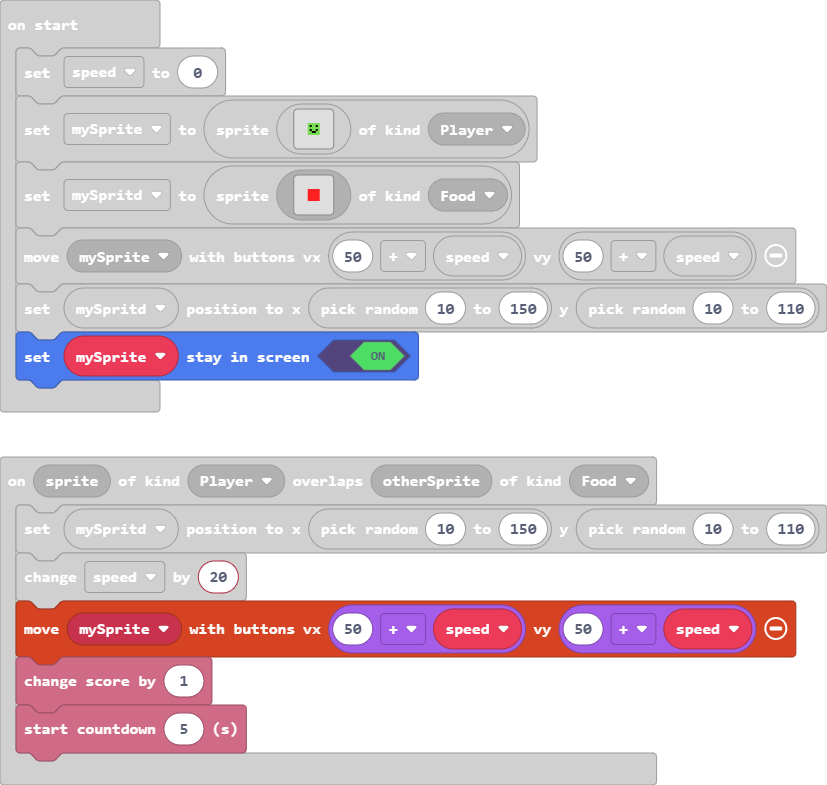
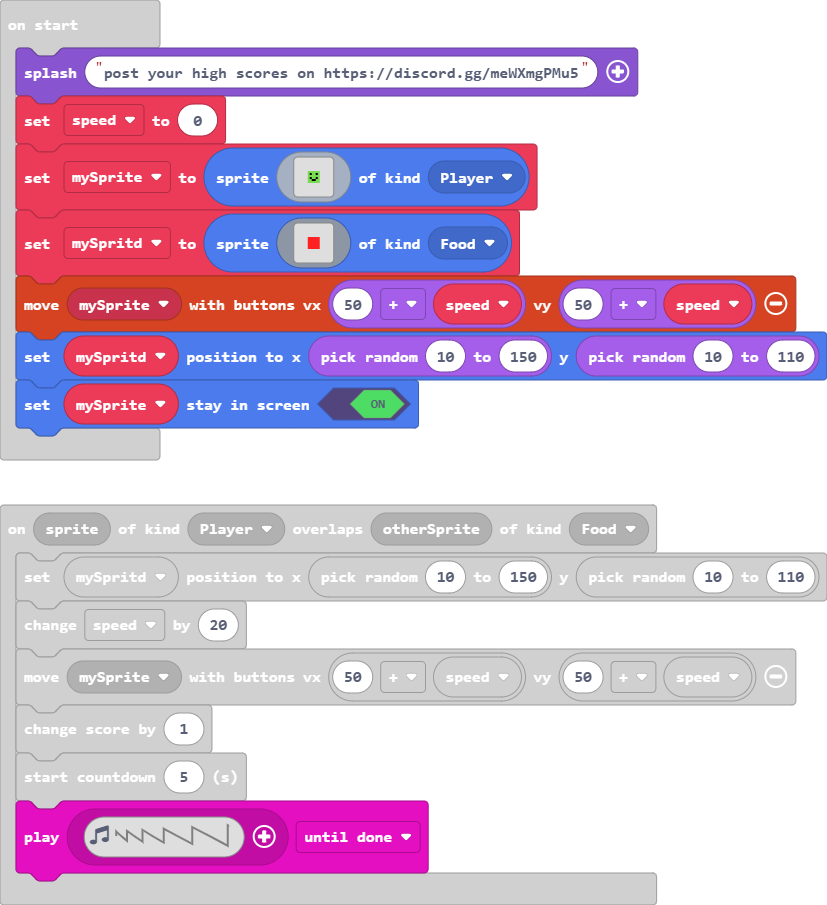
Update main.blocks, main.ts

diff --git a/main.ts b/main.ts
@@ -4,10 +4,12 @@ sprites.onOverlap(SpriteKind.Player, SpriteKind.Food, function (sprite, otherSpr
     controller.moveSprite(mySprite, 50 + speed, 50 + speed)
     info.changeScoreBy(1)
     info.startCountdown(5)
+    music.play(music.createSoundEffect(WaveShape.Sawtooth, 5000, 2147, 77, 191, 590, SoundExpressionEffect.Vibrato, InterpolationCurve.Curve), music.PlaybackMode.UntilDone)
 })
 let mySpritd: Sprite = null
 let mySprite: Sprite = null
 let speed = 0
+game.splash("post your high scores on https://discord.gg/meWXmgPMu5")
 speed = 0
 mySprite = sprites.create(img`
     . . . . . . . . . . . . . . . . 
